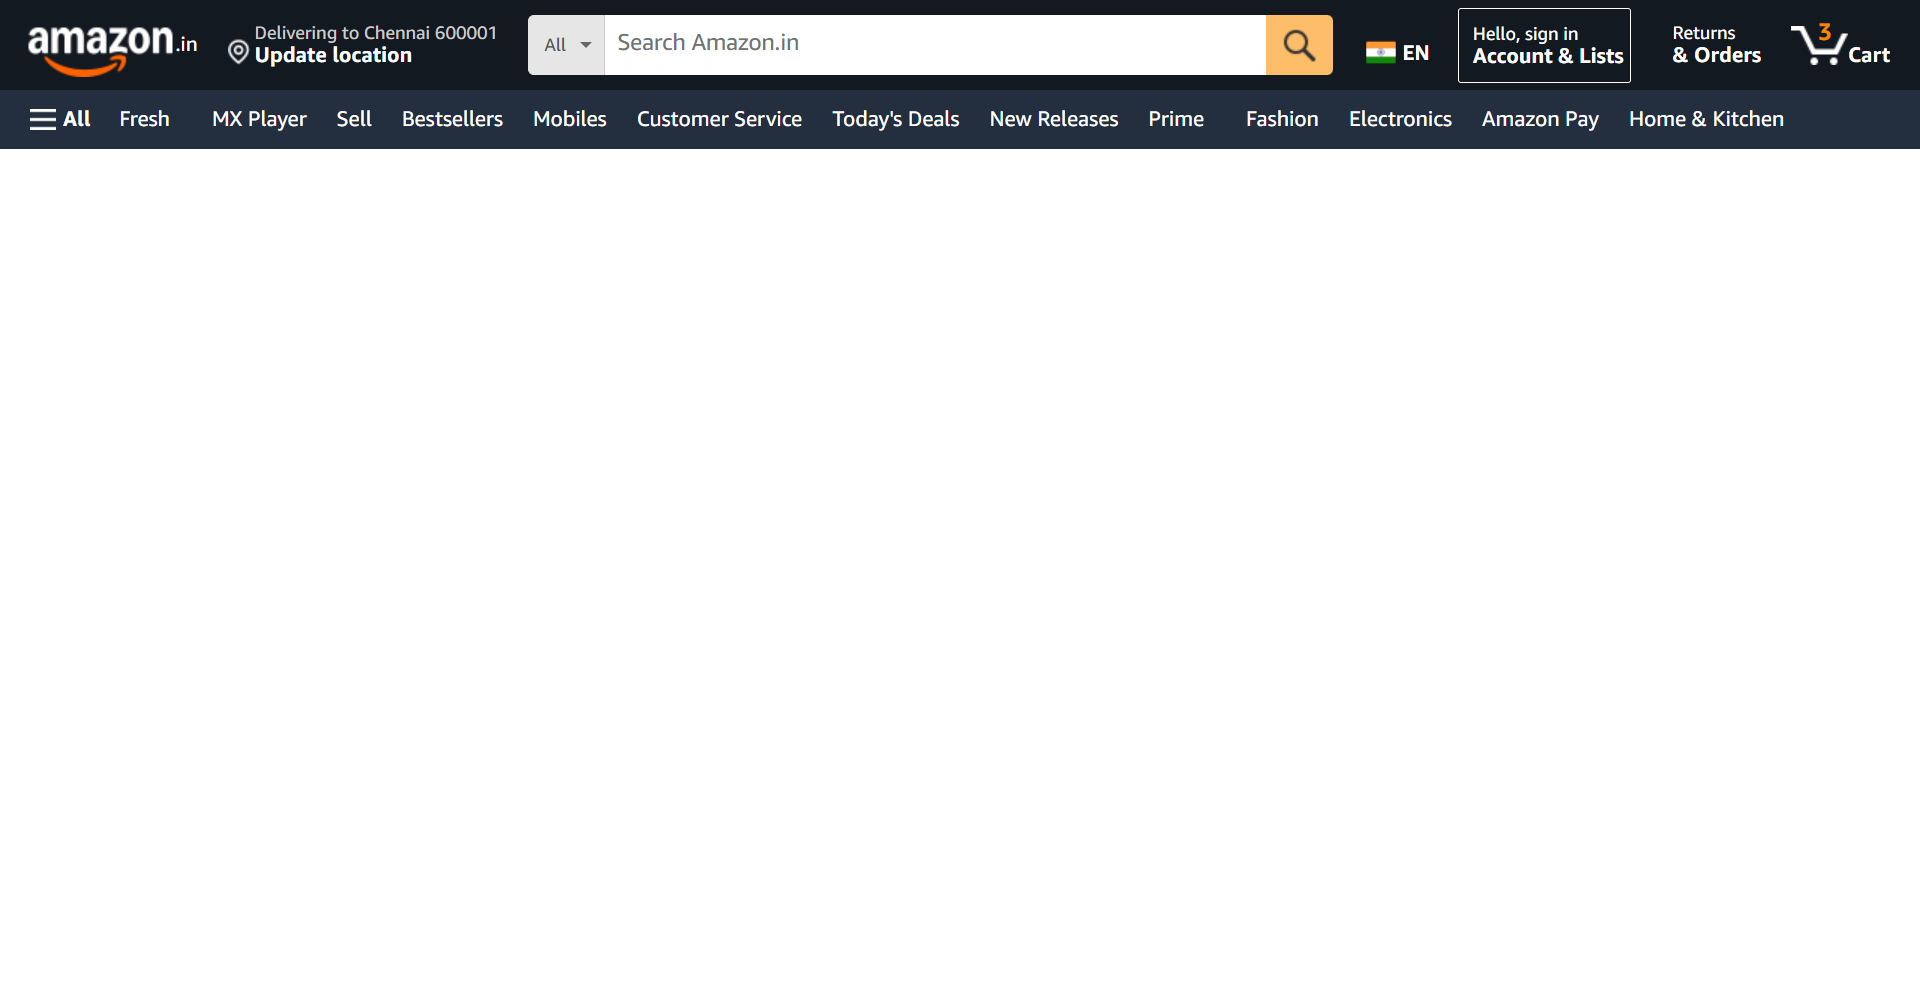
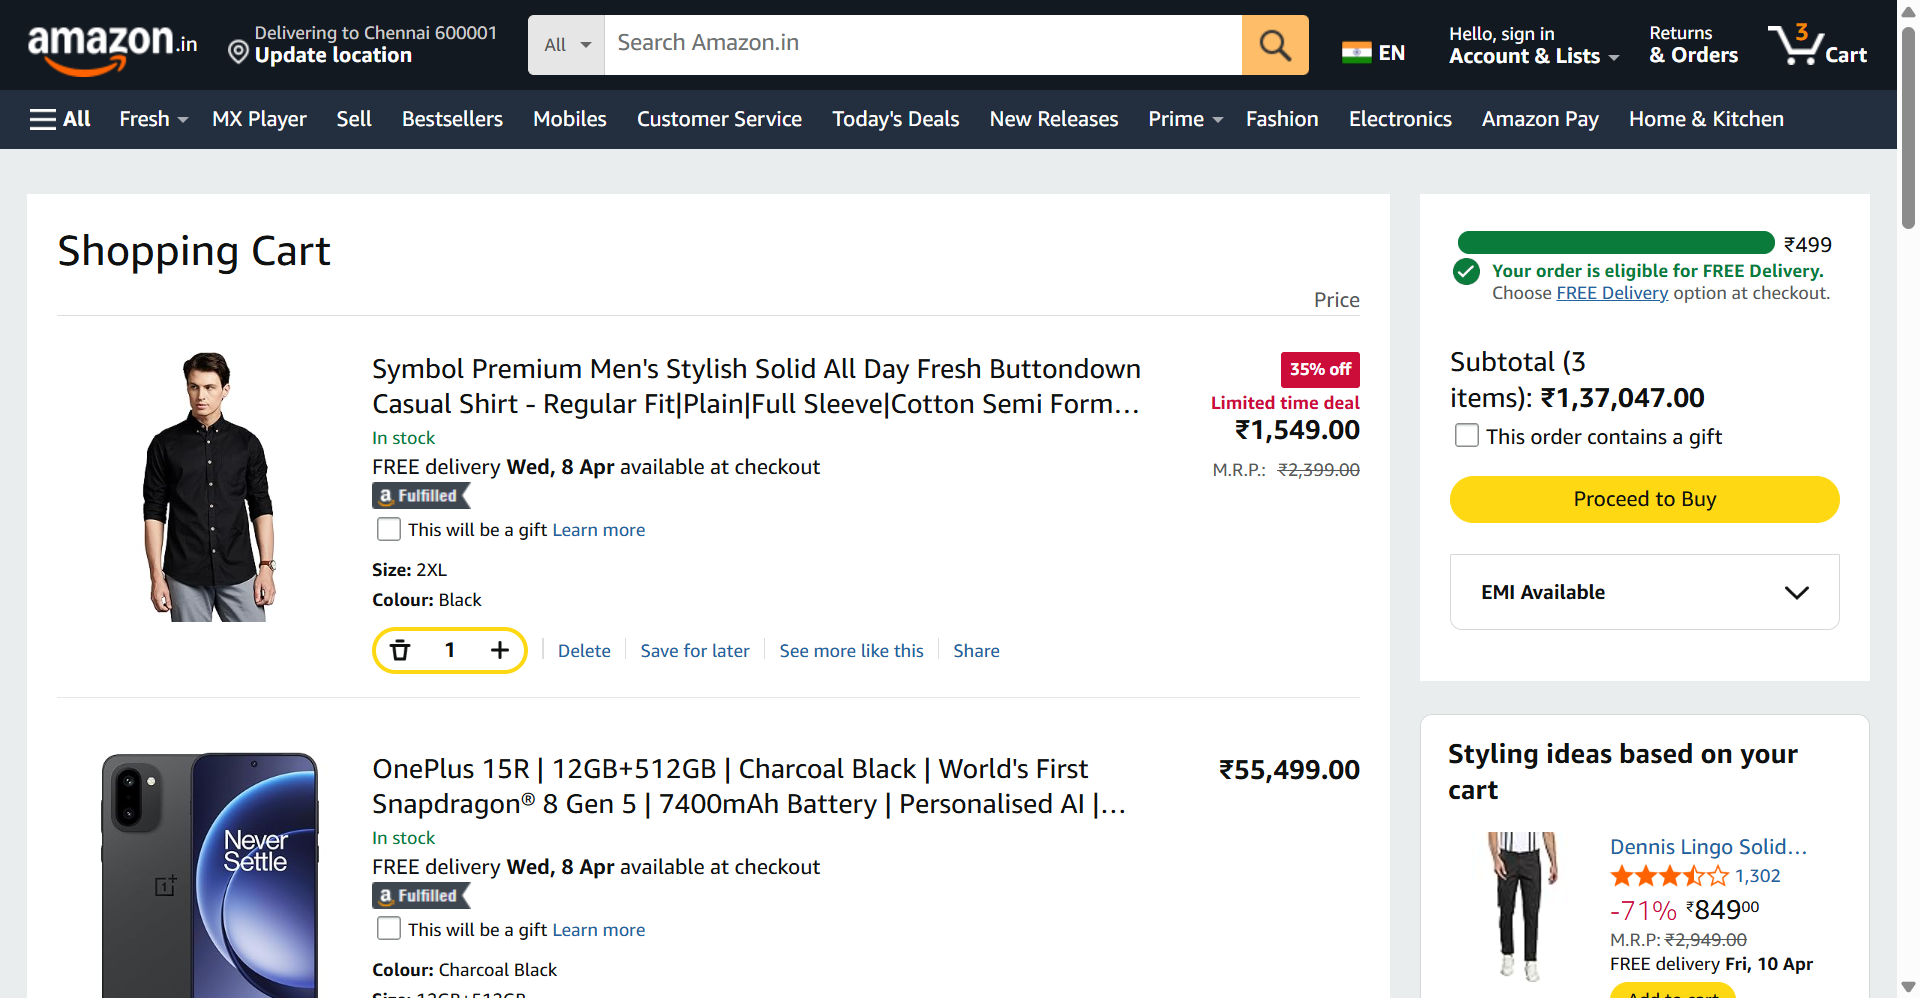
automation_day_1

diff --git a/tests/automation_day1.spec.ts b/tests/automation_day1.spec.ts
@@ -16,10 +16,10 @@ test('automation day_1', async({page})=>{
   await page.getByRole('button',{name:'Add to cart'}).click();
   await page.locator('#nav-cart').click();
   await page.locator('a[href="/gp/cart/view.html?ref_=nav_cart"]').click();
+  await page.waitForTimeout(2000);
   await page.screenshot({path: 'screenshots/cartpage_amazon_screenshot.png'});
   await page.getByRole('button',{name:"Proceed to Buy Buy Amazon items"}).click();
   await page.locator('#ap_email_login').fill('done');
-
   await page.waitForTimeout(2000);
   
 });
